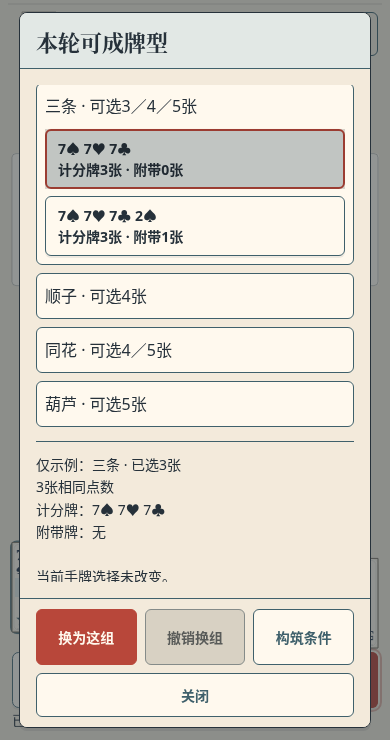
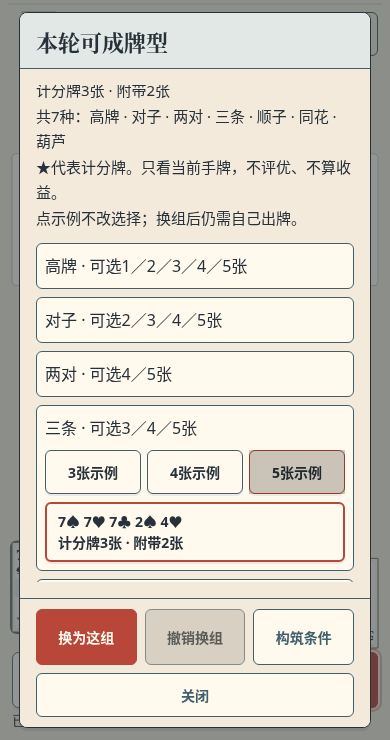
Clarify complete candidate directory and actual count variants

Changed region(s): [[0.0923, 0.0932, 0.9231, 0.8081], [0.8923, 0.4973, 0.9231, 0.5595], [0.8923, 0.4351, 0.9231, 0.4662]]

diff --git a/docs/production/evidence/p08-hand-candidates-review-2026-10-04/README.md b/docs/production/evidence/p08-hand-candidates-review-2026-10-04/README.md
@@ -1,17 +1,17 @@
 # P08整手候选：两张有界早评图
 
-仅证据分支，从已发布9610ab4建立；不含候选源码。当前原工作树源码尚未冻结，图片不是main现场版本。
+仅证据分支，从已发布9610ab4建立；不含候选源码。d297887第一版两图方向已由root实际fetch/view通过；本次仅补全部类别摘要和实际3/4/5张代表，未扩大面板或图数。候选尚未冻结，图片不是main现场版本。
 
[1 lines of base64/hex data omitted]
-- embedded构建：`{"version": "C03", "revision": "9610ab4e8ce35d9d98a679fa60258f1d5742c5bb", "modified": true, "builtAt": "2026-10-04T00:58:34.975Z"}`
-- Chromium 151.0.7922.173；实际Canvas；CSS390×740，DPR1，safeInset top/right/bottom/left全部0。
-- 既有存档校验通过的FIXTURE，经原生导入/选牌输入：7♠7♥7♣2♠4♥，持有c08/c09/f09。旧可读素材，非自然购买或新美术。
-- 整屏：真实三条，计分3张/附带2张，当前整手7类，四牌普通规则常驻，候选入口可点，不侵底栏。
-- 同一详情组件：原生打开，点三条示例仅ghost，正文原生滚至三条3/4/5张类别；固定换组/撤销/关闭，其他目录仍可滚动浏览。
-- 本次native示例/关闭前后selectedIds及整份运行状态相同；仅这些早评路线已验，不冒充批2完整逻辑验收。
-- 工程已实际view；独立视觉早评PENDING，整体审美/OnePlus/GPU/听感NOT_RUN。
[1 lines of base64/hex data omitted]
+- embedded构建：`{"version": "C03", "revision": "9610ab4e8ce35d9d98a679fa60258f1d5742c5bb", "modified": true, "builtAt": "2026-10-04T01:21:40.381Z"}`
+- Chromium 151.0.7922.173；实际Canvas；CSS390×740，DPR1，safeInset top/right/bottom/left全0。
+- 校验通过FIXTURE，经原生导入/选牌输入：7♠7♥7♣2♠4♥，持有c08/c09/f09。旧可读素材，非自然购买、新美术或部署现场。
+- 整屏：真实三条/计分3附带2/7类入口/常驻四牌普通规则，底栏不被遮。
+- 同组件详情：初开列出全部7类（固定目录序）；仅真实张数显示44px切换各1代表。原生选择5张示例后正文滚32CSSpx，目录摘要、3/4/5、完整5牌及固定换组/撤销/关闭可见；其他类别同唯一正文滚动。
+- 点示例/张数不改选择；同手牌旧弹窗回调不能应用新ghost。当前明确换3张再撤销回5张，原生浏览器selectedIds/整份运行状态检查PASS。
+- 本证据路线不等于全逻辑验收。工程实际view；两项修后独立早评PENDING，整体审美/OnePlus/GPU/听感NOT_RUN。
 
 | 文件 | SHA256 |
 | --- | --- |
[3 lines of base64/hex data omitted]
